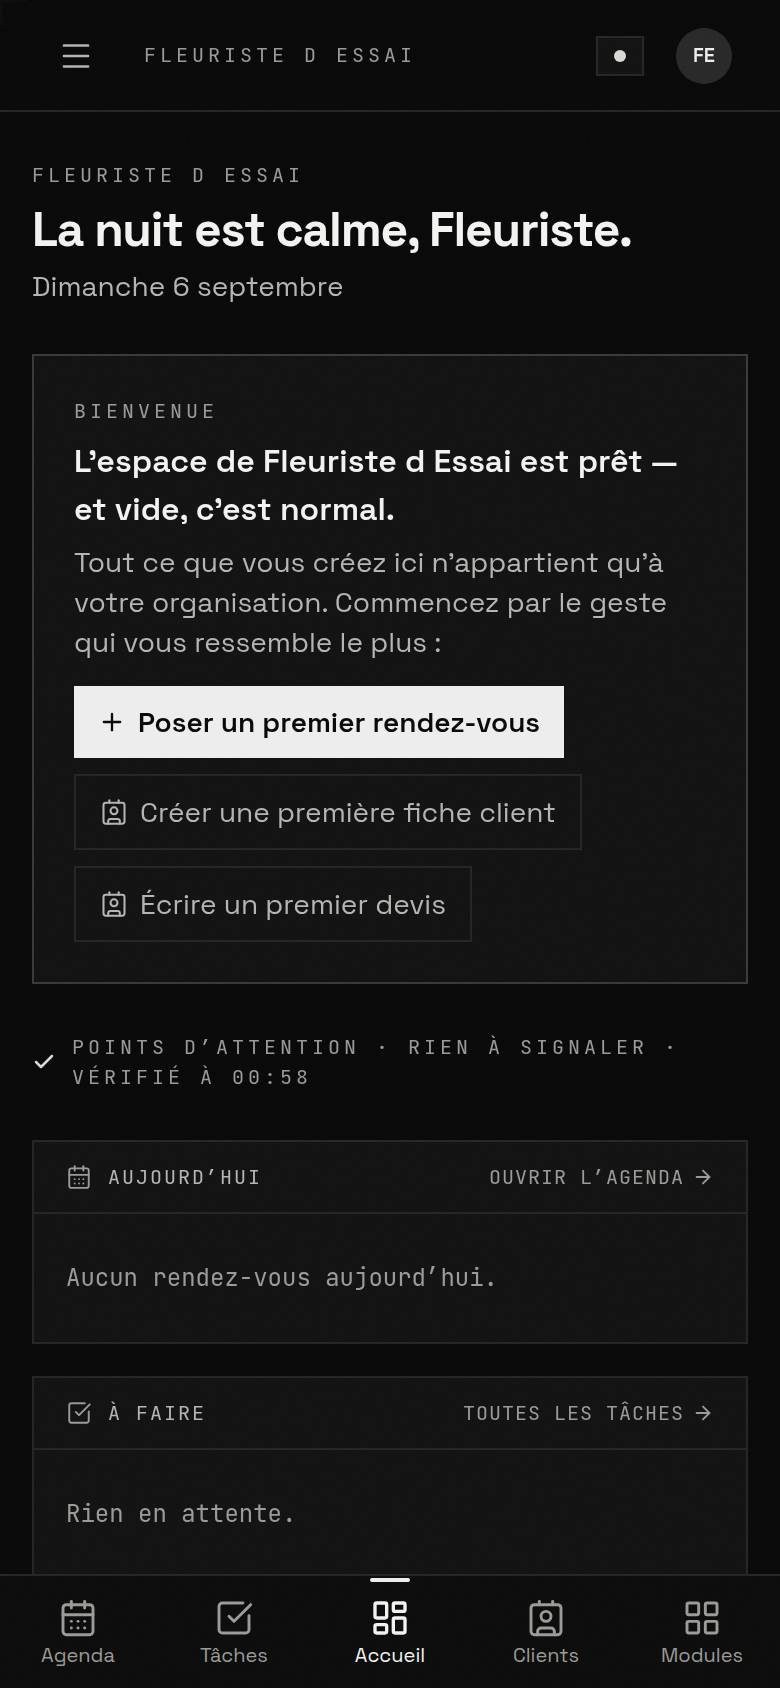
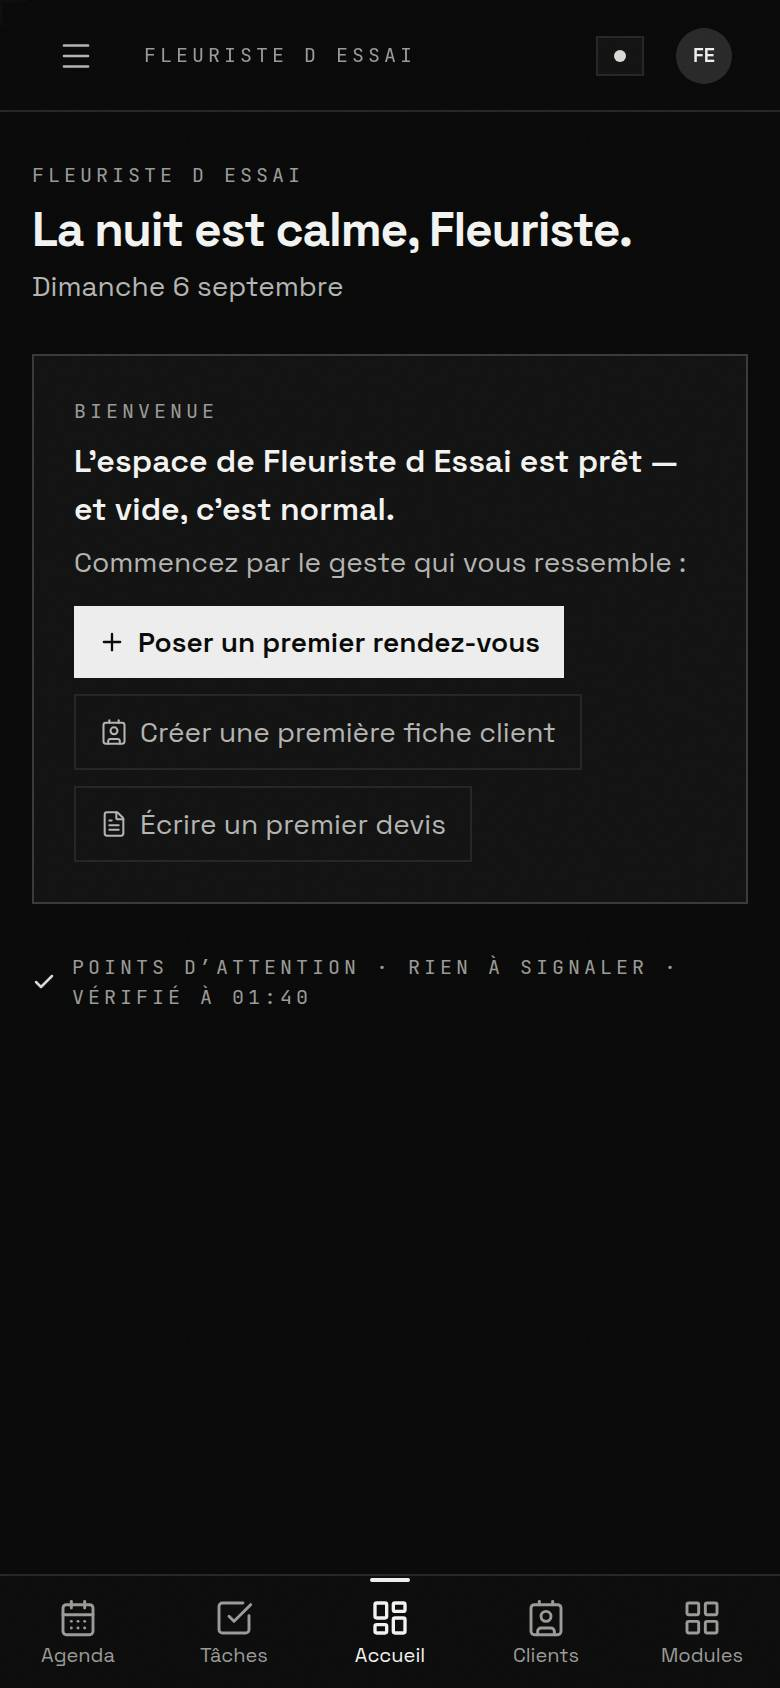
L'Automatique, Bloc 4 : l'édition cliente — une chose d'abord sur un espace vide, le Majordome un degré plus chaud, des états vides illustrés d'un trait
- Accueil solo : un espace vide montre la carte de bienvenue et rien qui la répète ; quand l'espace vit, une seule absence parle
- Le Majordome : « Rien de nouveau pendant votre absence ; tout vous a attendu » (FR/EN), verdict inchangé
- FirstRun accepte le glyphe du module, en filet ; Clients : plus de répertoire creux avant la première fiche
- La carte de bienvenue perd sa phrase juridique ; chaque geste porte son glyphe
- Captures après (édition cliente), rapport mis à jour

Claude-Session: https://claude.ai/code/session_01BEf9qY21FAUuZ4ogxRY3s2

diff --git a/src/business/HomeSoloScreen.tsx b/src/business/HomeSoloScreen.tsx
@@ -99,6 +99,10 @@ export function HomeSoloScreen() {
   );
 
   const hasAnything = appointments.length > 0 || tasks.length > 0 || clients.length > 0;
+  /* Une seule absence parle (EmptyState, règle 3) : la première carte vide le dit, les suivantes se taisent. */
+  const vides = [today.length === 0, openTasks.length === 0, clients.length === 0];
+  const premierVide = vides.indexOf(true);
+  const muet = (i: number) => vides[i] && i !== premierVide;
 
   return (
     <div className="flex flex-col gap-6">
@@ -135,8 +139,9 @@ export function HomeSoloScreen() {
           s'affiche tant qu'il n'y a rien à signaler. */}
       <AttentionPanel state={attention} />
 
+      {/* L'espace vide ne montre pas trois cartes vides : la carte de bienvenue est la seule chose à lire, les raccourcis la seule chose à faire. */}
       <StaggerGroup className="grid grid-cols-1 gap-4 lg:grid-cols-3">
-        <StaggerItem className="lg:col-span-2">
+        {hasAnything && <StaggerItem className="lg:col-span-2">
           <Card
             icon={CalendarDays}
             title="Aujourd’hui"
@@ -157,7 +162,7 @@ export function HomeSoloScreen() {
             )}
 
             {today.length === 0 ? (
-              <Empty>Aucun rendez-vous aujourd’hui.</Empty>
+              <Empty muet={muet(0)}>Aucun rendez-vous aujourd’hui.</Empty>
             ) : (
               <ul className="flex flex-col divide-y divide-border/60">
                 {today.map((appointment) => (
@@ -166,12 +171,12 @@ export function HomeSoloScreen() {
               </ul>
             )}
           </Card>
-        </StaggerItem>
+        </StaggerItem>}
 
-        <StaggerItem>
+        {hasAnything && <StaggerItem>
           <Card icon={CheckSquare} title="À faire" action={isModuleEnabled('tasks') ? { to: '/tasks', label: 'Toutes les tâches' } : undefined}>
             {openTasks.length === 0 ? (
-              <Empty>Rien en attente.</Empty>
+              <Empty muet={muet(1)}>Rien en attente.</Empty>
             ) : (
               <ul className="flex flex-col divide-y divide-border/60">
                 {openTasks.map((task) => (
@@ -185,12 +190,12 @@ export function HomeSoloScreen() {
               </ul>
             )}
           </Card>
-        </StaggerItem>
+        </StaggerItem>}
 
-        <StaggerItem className="lg:col-span-2">
+        {hasAnything && <StaggerItem className="lg:col-span-2">
           <Card icon={Contact} title="Clients" action={isModuleEnabled('clients') ? { to: '/clients', label: 'Toutes les fiches' } : undefined}>
             {clients.length === 0 ? (
-              <Empty>Aucune fiche client pour l’instant.</Empty>
+              <Empty muet={muet(2)}>Aucune fiche client pour l’instant.</Empty>
             ) : (
               <ul className="grid grid-cols-1 gap-2 sm:grid-cols-2">
                 {clients.slice(0, 6).map((client) => (
@@ -214,9 +219,9 @@ export function HomeSoloScreen() {
               </ul>
             )}
           </Card>
-        </StaggerItem>
+        </StaggerItem>}
 
-        <StaggerItem>
+        {hasAnything && <StaggerItem>
           <Card icon={FileText} title="Raccourcis">
             {/*
               Un raccourci vers un module fermé à cette organisation est une
@@ -231,7 +236,7 @@ export function HomeSoloScreen() {
               {isModuleEnabled('reports') && <Shortcut to="/reports" label="Rédiger un compte-rendu" />}
             </div>
           </Card>
-        </StaggerItem>
+        </StaggerItem>}
       </StaggerGroup>
     </div>
   );
@@ -262,12 +267,12 @@ function FirstRunCard() {
     const modules = org?.modules ?? null;
     const ouvert = (m: string) => modules === null || modules.includes(m);
     const gestes = [
-      { module: 'agenda', to: '/agenda', label: 'Poser un premier rendez-vous', fort: true },
-      { module: 'clients', to: '/clients', label: 'Créer une première fiche client', fort: false },
-      { module: 'invoices', to: '/facturation', label: 'Écrire un premier devis', fort: false },
-      { module: 'orders', to: '/commandes', label: 'Enregistrer une première commande', fort: false },
-      { module: 'notes', to: '/notes', label: 'Prendre une première note', fort: false },
-      { module: 'tasks', to: '/tasks', label: 'Poser une première tâche', fort: false },
+      { module: 'agenda', to: '/agenda', label: 'Poser un premier rendez-vous', fort: true, icone: CalendarDays },
+      { module: 'clients', to: '/clients', label: 'Créer une première fiche client', fort: false, icone: Contact },
+      { module: 'invoices', to: '/facturation', label: 'Écrire un premier devis', fort: false, icone: FileText },
+      { module: 'orders', to: '/commandes', label: 'Enregistrer une première commande', fort: false, icone: FileText },
+      { module: 'notes', to: '/notes', label: 'Prendre une première note', fort: false, icone: FileText },
+      { module: 'tasks', to: '/tasks', label: 'Poser une première tâche', fort: false, icone: CheckSquare },
     ].filter((g) => ouvert(g.module));
     // Le premier proposé est le geste fort ; il hérite du bouton plein.
     return gestes.slice(0, 3).map((g, i) => ({ ...g, fort: i === 0 }));
@@ -289,8 +294,7 @@ function FirstRunCard() {
           : 'Votre espace est prêt, et vide — c’est normal.'}
       </h2>
       <p className="mt-1 max-w-prose text-sm text-text-secondary">
-        Tout ce que vous créez ici n’appartient qu’à votre organisation. Commencez par le geste
-        qui vous ressemble le plus :
+        Commencez par le geste qui vous ressemble :
       </p>
       <div className="mt-3 flex flex-wrap gap-2">
         {ouverts.map((g) => (
@@ -303,7 +307,7 @@ function FirstRunCard() {
                 : 'flex items-center gap-1.5 border border-border px-3 py-2 text-sm text-text-secondary transition-colors hover:bg-surface-hover hover:text-text-primary'
             }
           >
-            {g.fort ? <Plus size={14} strokeWidth={2} /> : <Contact size={14} strokeWidth={1.75} />}
+            {g.fort ? <Plus size={14} strokeWidth={2} /> : <g.icone size={14} strokeWidth={1.75} />}
             {g.label}
           </Link>
         ))}
@@ -377,8 +381,8 @@ function Card({
   );
 }
 
-function Empty({ children }: { children: React.ReactNode }) {
-  return <p className="py-2 font-mono text-xs text-text-muted">{children}</p>;
+function Empty({ children, muet = false }: { children: React.ReactNode; muet?: boolean }) {
+  return <p className={`py-2 font-mono text-xs text-text-muted ${muet ? 'opacity-60' : ''}`}>{children}</p>;
 }
 
 function Shortcut({ to, label }: { to: string; label: string }) {

diff --git a/src/components/EmptyState.tsx b/src/components/EmptyState.tsx
@@ -83,20 +83,31 @@ export function EmptyState({
  * facture » est un module qui n'a pas démarré. Le second mérite d'expliquer à
  * quoi sert l'écran ; le premier n'a rien à expliquer et doit rester bref.
  *
- * Même retenue de forme malgré tout : pas de cadre, pas d'icône, deux phrases
- * au plus.
+ * Même retenue de forme malgré tout : pas de cadre, deux phrases au plus.
+ * L'ILLUSTRATION (L'Automatique, Bloc 4) est un trait, pas un décor : le glyphe
+ * du module, en filet, à la taille du titre — il dit « c'est ici que ça se
+ * passe » sans donner au vide la surface d'un contenu. Aucune image, aucune
+ * couleur : un état vide illustré reste un état vide.
  */
 export function FirstRun({
   title,
   children,
   action,
+  icone: Icone,
 }: {
   title: string;
   children: React.ReactNode;
   action?: { label: string; onClick: () => void };
+  /** Le glyphe du module (lucide), en filet. Optionnel : sans lui, rien ne change. */
+  icone?: React.ComponentType<{ size?: number; strokeWidth?: number; className?: string }>;
 }) {
   return (
     <div className="max-w-lg py-6">
+      {Icone && (
+        <span className="mb-3 inline-flex h-10 w-10 items-center justify-center rounded-full border border-border text-text-muted" aria-hidden>
+          <Icone size={18} strokeWidth={1.5} />
+        </span>
+      )}
       <p className="text-[15px] font-medium text-text-primary">{title}</p>
       <p className="mt-1.5 text-[13px] leading-relaxed text-text-secondary">{children}</p>
       {action && (

diff --git a/src/screens/ClientsScreen.tsx b/src/screens/ClientsScreen.tsx
@@ -16,6 +16,7 @@ import {
   Printer,
   ReceiptEuro,
   X,
+  Contact,
 } from 'lucide-react';
 import { useClients } from '../state/useClients';
 import { relativeTime } from '../lib/time';
@@ -201,14 +202,15 @@ export function ClientsScreen() {
         }
       />
 
-      <div className="grid min-h-0 flex-1 grid-cols-1 gap-4 md:grid-cols-[300px_1fr]">
-        <ClientList
+      <div className={`grid min-h-0 flex-1 grid-cols-1 gap-4 ${clients.length === 0 && !loading ? '' : 'md:grid-cols-[300px_1fr]'}`}>
+        {/* Un répertoire vide est une boîte creuse : il n'apparaît qu'avec sa première fiche. */}
+        {(clients.length > 0 || loading) && <ClientList
           clients={clients}
           sites={sites}
           loading={loading}
           selectedId={selectedId}
           onSelect={setSelectedId}
-        />
+        />}
         {selected ? (
           <ClientDetail
             key={selected.id}
@@ -234,6 +236,7 @@ export function ClientsScreen() {
               <p className="eyebrow">Chargement…</p>
             ) : (
               <FirstRun
+                icone={Contact}
                 title={tr('hist.clients.aucuneFicheClient')}
                 action={{ label: tr('hist.clients.creerUneFiche'), onClick: () => setAdding(true) }}
               >{tr('hist.clients.uneFicheRassembleLes')}</FirstRun>

diff --git a/src/lib/releve.ts b/src/lib/releve.ts
@@ -151,10 +151,10 @@ export function construireReleve({
     nouvelles.push(
       anglais
         ? chaud
-          ? 'Nothing new while you were away'
+          ? 'Nothing new while you were away; everything waited for you'
           : 'No arrivals during the absence'
         : chaud
-          ? 'Rien de nouveau pendant votre absence'
+          ? 'Rien de nouveau pendant votre absence ; tout vous a attendu'
           : 'Aucune arrivée pendant l’absence',
     );
   }
